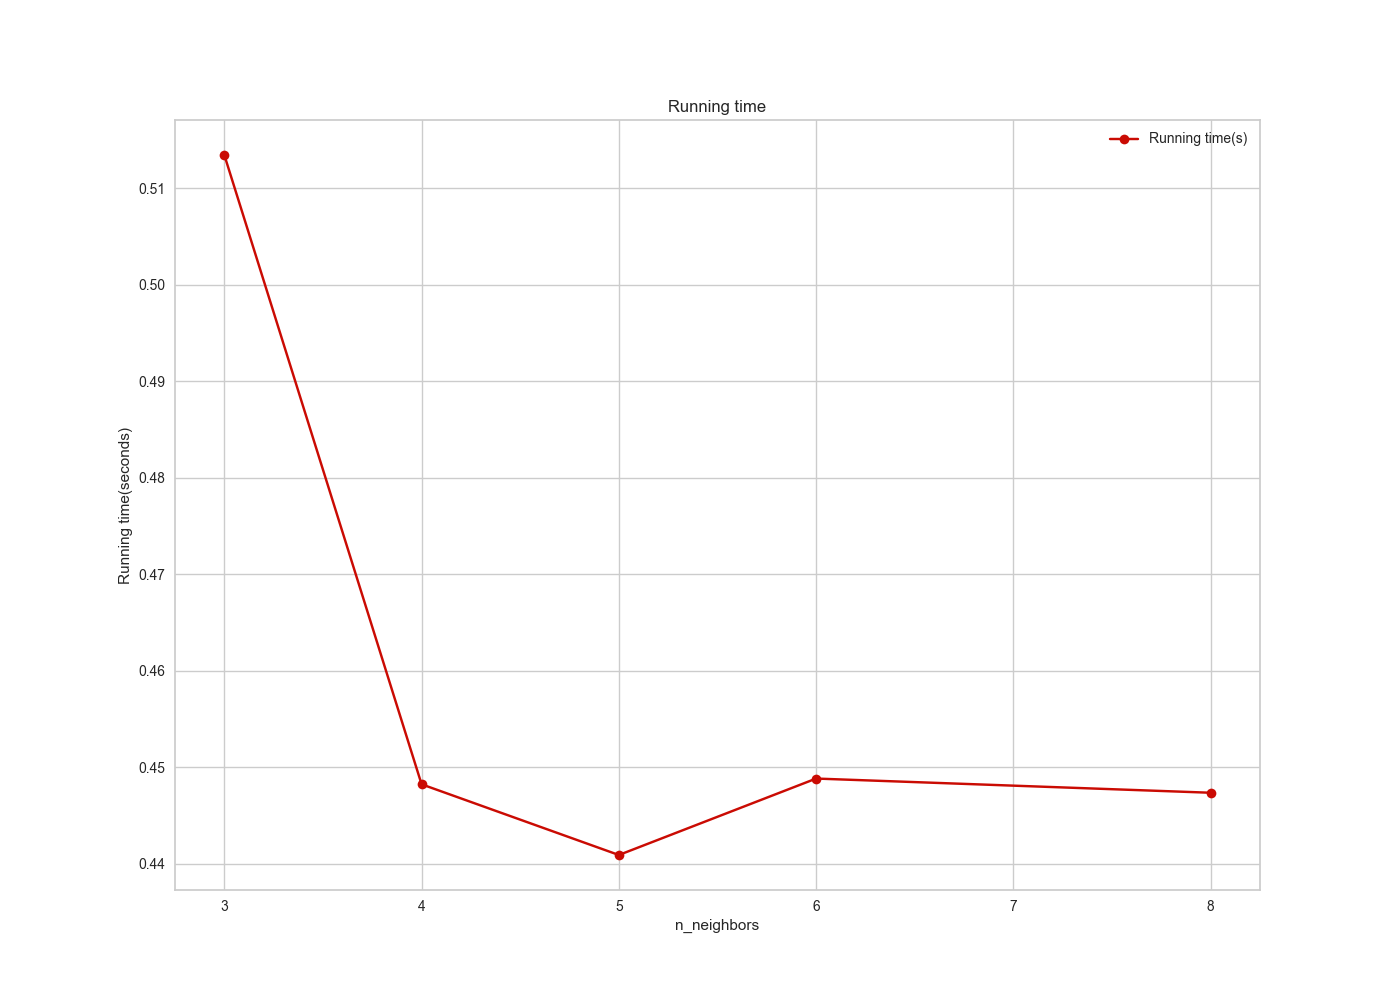
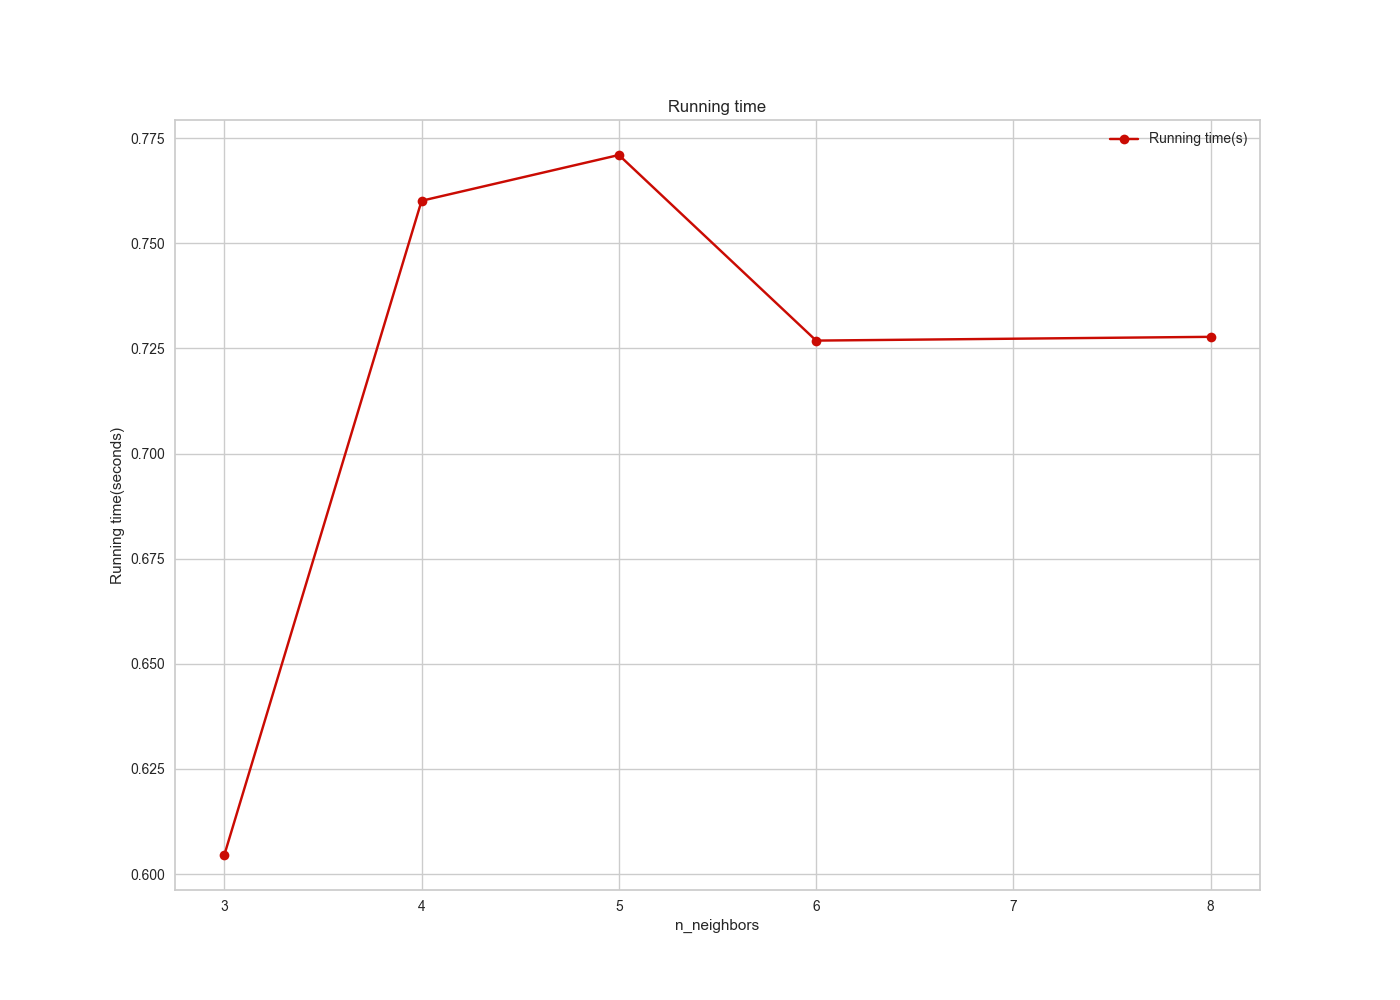
knn updated

diff --git a/proj/stage3/code/knn.py b/proj/stage3/code/knn.py
@@ -26,7 +26,7 @@ def knnTest(X_train, X_test, y_train, y_test):
         # capture the start time
         start = time.time()
 
-        neigh = KNeighborsClassifier(n_neighbors=3)
+        neigh = KNeighborsClassifier(n_neighbors=i)
         neigh.fit(X_train, np.ravel(y_train))
         y_pred_knn = neigh.predict(X_test)
         # capture the end time of calculation
@@ -43,8 +43,6 @@ def knnTest(X_train, X_test, y_train, y_test):
     plt.clf()
 
     #Generating Test accuracy plot
-
-
     plt.plot(c, testAccuracy, 'ro-')
     plt.legend(['Test Accuracy'])
     plt.xlabel('n_neighbors')
